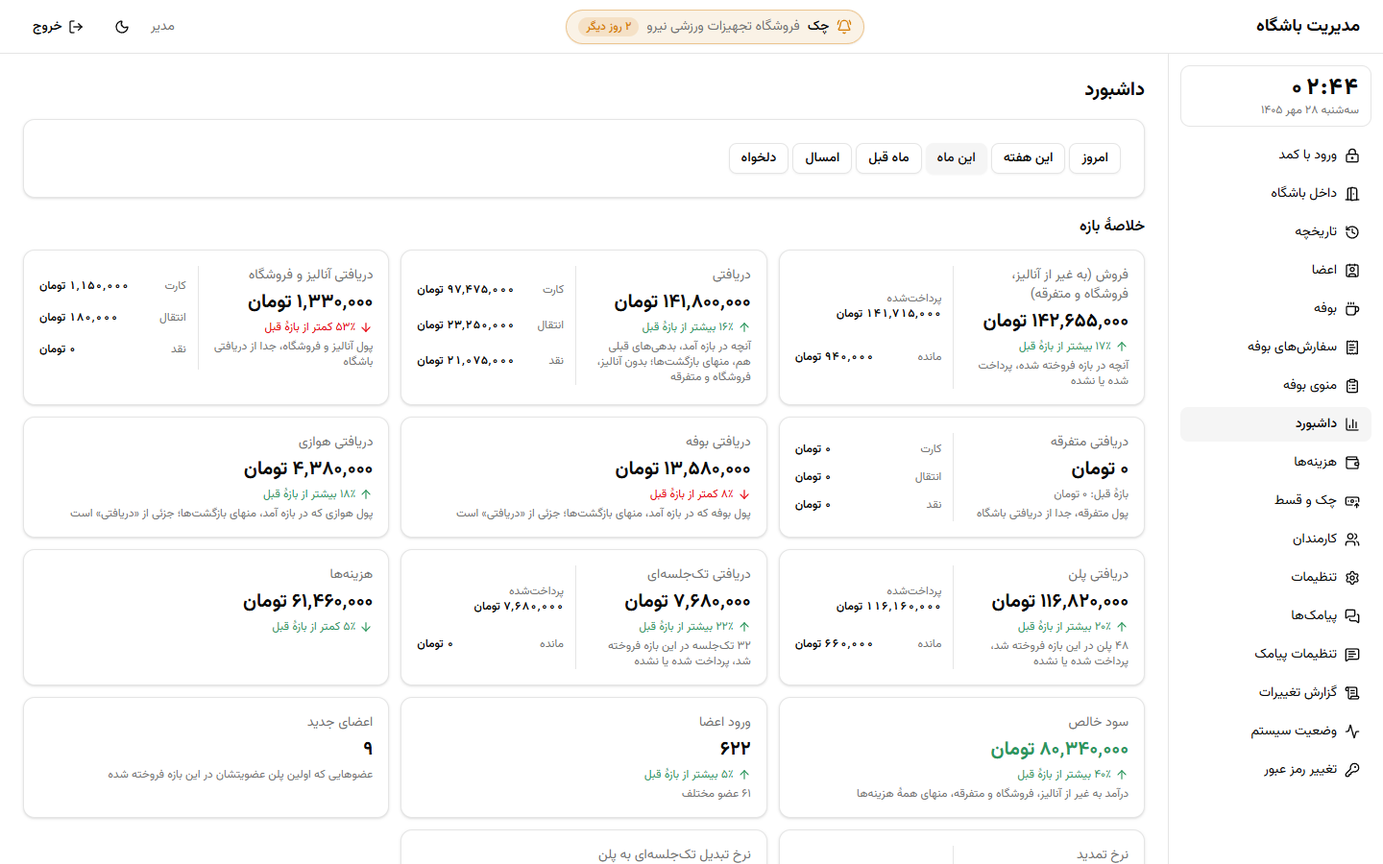
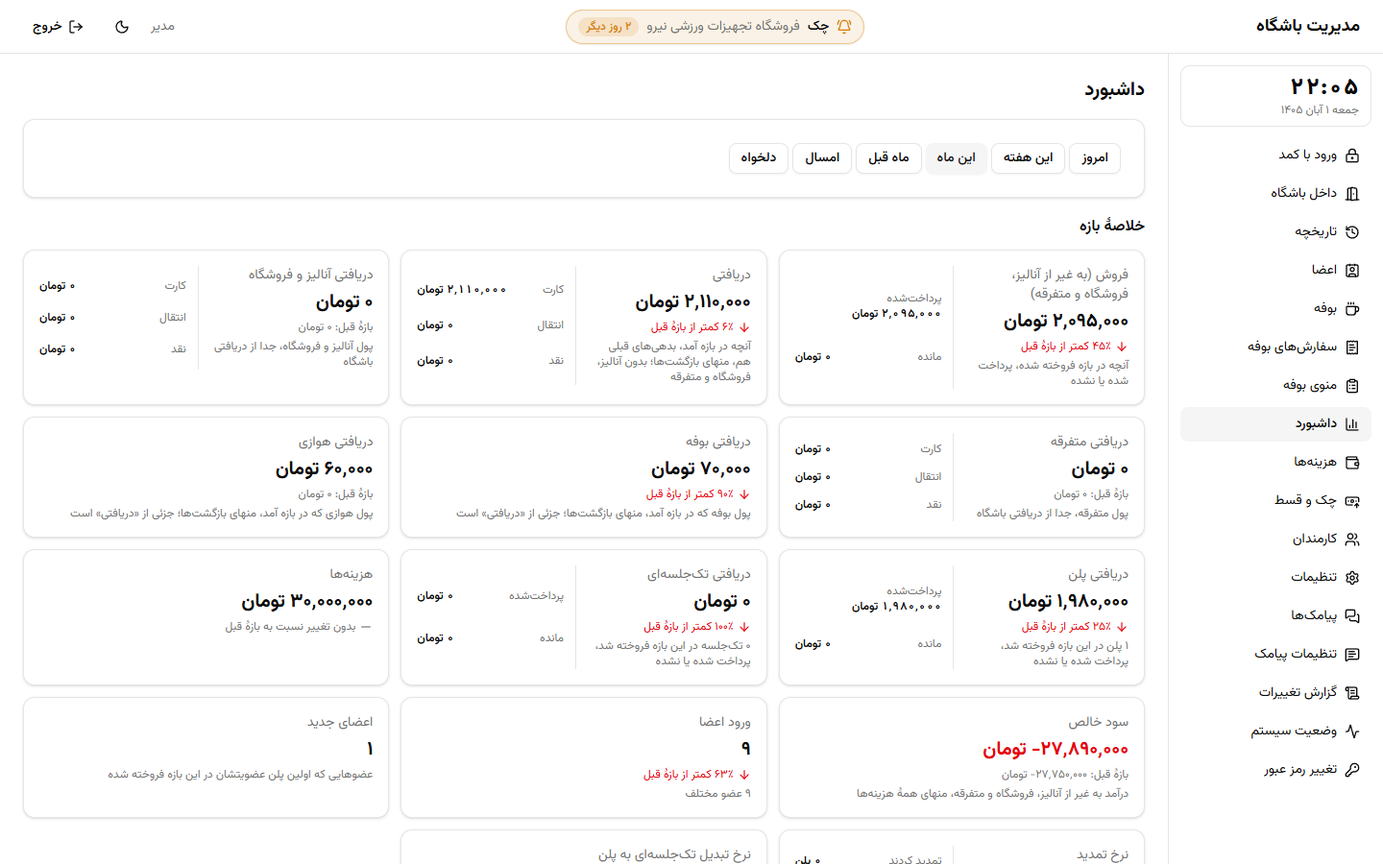
feat(sms): new wording for the absence, welcome and birthday SMS; dashboard on a month's 1st (10.18)
- Absence: spoken wording with the member's real days away (Absence.DaysAway), two parts
- Welcome: spoken wording, two parts; birthday: spoken wording, still two parts
- Dashboard: when presets share a range, the default «این ماه» lights (a month's 1st, 1 Farvardin)
- ServiceChargeBox void test waits 3 s for its notice
- README screenshots retaken

diff --git a/web/src/features/sms/pages/SmsSettingsPage.test.tsx b/web/src/features/sms/pages/SmsSettingsPage.test.tsx
@@ -92,13 +92,16 @@ const samples: SmsSamples = {
     "علی عزیز، اشتراک شما در باشگاه پاسارگاد ۱۴۰۵/۰۷/۳۱ به پایان میرسد.\nلغو11",
   ),
   lowSessions: sample("علی عزیز، فقط ۲ جلسه از اشتراک شما در باشگاه پاسارگاد مانده است.\nلغو11"),
-  birthday: sample("علی عزیز، ۰۷/۳۱ روز تولد شماست؛ …\nلغو11", 2),
+  birthday: sample("علی عزیز سلام، ۰۷/۳۱ روز تولدته؛ …\nلغو11", 2),
   payableDue: sample("یادآوری چک: ۱۲٬۵۰۰٬۰۰۰ تومان، سررسید ۱۴۰۵/۰۷/۳۰، به فروشگاه\nلغو11"),
   dailyReport: sample("گزارش باشگاه پاسارگاد ۰۷/۲۸\nورود: ۴۸\nلغو11", 2),
   subscriptionReceipt: sample("علی عزیز، اشتراک ۱۲ جلسهای شما … سپاس!\nلغو11", 2),
-  welcome: sample("علی عزیز، به باشگاه پاسارگاد خوش آمدید!\nلغو11"),
+  welcome: sample("درود بر علی عزیز، به باشگاه پاسارگاد خوش اومدی، …\nلغو11", 2),
   debtReminder: sample("علی عزیز، مانده حساب شما در باشگاه پاسارگاد ۴۵۰٬۰۰۰ تومان است.\nلغو11", 2),
-  absence: sample("علی عزیز، جای شما در باشگاه پاسارگاد خالی است!\nلغو11"),
+  absence: sample(
+    "علی عزیز، جات توی باشگاه پاسارگاد خالیه! ۱۲ روزه که باشگاه نیومدی و منتظر حضور گرمت هستیم!\nلغو11",
+    2,
+  ),
 };
 
 /** The phone-like preview inside one kind's card. */
@@ -133,9 +136,12 @@ describe("SmsSettingsPage", () => {
     renderApp("/sms-settings", { session: session() });
 
     await waitFor(() =>
-      expect(previewOf("خوشآمد")).toHaveTextContent("علی عزیز، به باشگاه پاسارگاد خوش آمدید!"),
+      expect(previewOf("خوشآمد")).toHaveTextContent(
+        "درود بر علی عزیز، به باشگاه پاسارگاد خوش اومدی، …",
+      ),
     );
-    expect(previewOf("خوشآمد")).toHaveTextContent("۱ بخش · نام و عددها نمونهاند");
+    expect(previewOf("خوشآمد")).toHaveTextContent("۲ بخش · نام و عددها نمونهاند");
+    expect(previewOf("جلسات رو به اتمام")).toHaveTextContent("۱ بخش");
     expect(previewOf("گزارش روزانه")).toHaveTextContent("گزارش باشگاه پاسارگاد ۰۷/۲۸");
     expect(previewOf("گزارش روزانه")).toHaveTextContent("۲ بخش");
     for (const name of [

diff --git a/web/src/features/dashboard/range.ts b/web/src/features/dashboard/range.ts
@@ -84,12 +84,18 @@ export function presetRange(preset: RangePreset, today: string): ReportRange {
   }
 }
 
-/** The preset a range is, so its button reads pressed; undefined for a range of one's own. */
+/**
+ * The preset a range is, so its button reads pressed; undefined for a range of one's own. When
+ * several cover the same days, the page's default wins (on a month's 1st «امروز» and «این ماه» are
+ * one day, and the page opens on «این ماه»), and otherwise the first one listed.
+ */
 export function presetOf(range: ReportRange, today: string): RangePreset | undefined {
-  return rangePresets.find((preset) => {
+  const matching = rangePresets.filter((preset) => {
     const candidate = presetRange(preset, today);
     return candidate.from === range.from && candidate.to === range.to;
   });
+
+  return matching.includes(defaultRangePreset) ? defaultRangePreset : matching[0];
 }
 
 /** How many days a range covers, both ends included. */

diff --git a/web/src/features/dashboard/range.test.ts b/web/src/features/dashboard/range.test.ts
@@ -64,6 +64,17 @@ describe("presetOf", () => {
     // On a Saturday "today" and "this week" are the same day; the first one listed wins.
     expect(presetOf({ from: "2026-10-03", to: "2026-10-03" }, "2026-10-03")).toBe("today");
   });
+
+  it("presetOf_FirstOfTheMonth_IsThisMonth", () => {
+    // 2026-10-23 is Friday ۱۴۰۵/۰۸/۰۱: "today" and "this month" are the same day; the page's
+    // default wins.
+    expect(presetOf({ from: "2026-10-23", to: "2026-10-23" }, "2026-10-23")).toBe("month");
+  });
+
+  it("presetOf_FirstOfTheYear_IsThisMonth", () => {
+    // 2027-03-21 is ۱۴۰۶/۰۱/۰۱: "today", "this month" and "this year" are one day.
+    expect(presetOf({ from: "2027-03-21", to: "2027-03-21" }, "2027-03-21")).toBe("month");
+  });
 });
 
 describe("rangeError", () => {

diff --git a/web/src/features/serviceCharges/components/ServiceChargeBox.test.tsx b/web/src/features/serviceCharges/components/ServiceChargeBox.test.tsx
@@ -286,7 +286,11 @@ describe("ServiceChargeBox", () => {
     await waitFor(() =>
       expect(api.requestsTo("POST", `/api/service-charges/${charge.id}/void`)).toHaveLength(1),
     );
-    expect(await screen.findByText("مبلغ هوازی ابطال شد")).toBeInTheDocument();
+    // The notice comes once the dialog has closed and the visit is read again; on a machine busy
+    // with the whole suite that took longer than the default second (seen 2026-10-23).
+    expect(
+      await screen.findByText("مبلغ هوازی ابطال شد", {}, { timeout: 3000 }),
+    ).toBeInTheDocument();
   });
 
   it("Box_NoChargeOnAClosedVisit_ShowsNothing", async () => {

diff --git a/tests/Gym.Domain.Tests/Notifications/SmsTextTests.cs b/tests/Gym.Domain.Tests/Notifications/SmsTextTests.cs
@@ -74,13 +74,13 @@ public sealed class SmsTextTests
     public void ForBirthday_Birthday_IsTheAgreedTextWithTheFreeVisit()
     {
         SmsText.ForBirthday("سارا محمدی", Day)
-            .ShouldBe("سارا عزیز، ۰۷/۲۰ روز تولد شماست؛ آن روز مهمان باشگاه پاسارگاد هستید و ورودتان رایگان است. پیشاپیش تولدتان مبارک!" + OptOutLine);
+            .ShouldBe("سارا عزیز سلام، ۰۷/۲۰ روز تولدته؛ اون روز مهمون باشگاه پاسارگاد هستی و ورودت رایگانه. پیشاپیش تولدت مبارک رفیق!!" + OptOutLine);
     }
 
     [Fact]
     public void ForBirthday_TenCharacterName_FitsInTwoParts()
     {
-        // docs/sms-texts.md: about 124 characters; two parts hold 134.
+        // docs/sms-texts.md: about 118 characters; two parts hold 134.
         SmsText.ForBirthday("سارا محمدی", Day).Length.ShouldBeLessThanOrEqualTo(2 * 67);
     }
 
@@ -294,20 +294,21 @@ public sealed class SmsTextTests
     [Fact]
     public void ForWelcome_Member_GreetsThemByName()
     {
-        SmsText.ForWelcome("سارا محمدی").ShouldBe("سارا عزیز، به باشگاه پاسارگاد خوش آمدید!" + OptOutLine);
+        SmsText.ForWelcome("سارا محمدی")
+            .ShouldBe("درود بر سارا عزیز، به باشگاه پاسارگاد خوش اومدی، امیدوارم ساعات خوشی رو توی باشگاه داشته باشی" + OptOutLine);
     }
 
     [Fact]
     public void ForWelcome_NameWithSayyed_IsTheFirstNameOnly()
     {
-        SmsText.ForWelcome(LongName).ShouldStartWith("محمد عزیز،");
+        SmsText.ForWelcome(LongName).ShouldStartWith("درود بر محمد عزیز،");
     }
 
     [Fact]
-    public void ForWelcome_TenCharacterName_FitsInOnePart()
+    public void ForWelcome_TenCharacterName_IsTwoParts()
     {
-        // docs/sms-texts.md: about 52 characters, one part of 70.
-        SmsText.ForWelcome("سارا محمدی").Length.ShouldBeLessThanOrEqualTo(70);
+        // docs/sms-texts.md: about 99 characters, two parts of 67 (the developer accepted two, 1405/08/01).
+        SmsParts.Count(SmsText.ForWelcome("سارا محمدی")).ShouldBe(2);
     }
 
     // ---- The debt reminder (task 10.11) ----
@@ -336,22 +337,31 @@ public sealed class SmsTextTests
     // ---- The absence SMS (task 10.12) ----
 
     [Fact]
-    public void ForAbsence_Member_TellsThemTheirPlaceIsEmpty()
+    public void ForAbsence_Member_TellsThemTheirPlaceIsEmptyAndTheDaysAway()
     {
-        SmsText.ForAbsence("سارا محمدی").ShouldBe("سارا عزیز، جای شما در باشگاه پاسارگاد خالی است!" + OptOutLine);
+        SmsText.ForAbsence("سارا محمدی", 12)
+            .ShouldBe("سارا عزیز، جات توی باشگاه پاسارگاد خالیه! ۱۲ روزه که باشگاه نیومدی و منتظر حضور گرمت هستیم!" + OptOutLine);
     }
 
     [Fact]
     public void ForAbsence_NameWithSayyed_IsTheFirstNameOnly()
     {
-        SmsText.ForAbsence(LongName).ShouldStartWith("محمد عزیز،");
+        SmsText.ForAbsence(LongName, 12).ShouldStartWith("محمد عزیز،");
+    }
+
+    [Theory]
+    [InlineData(0)]
+    [InlineData(-1)]
+    public void ForAbsence_NoDaysAway_Throws(int daysAway)
+    {
+        Should.Throw<ArgumentOutOfRangeException>(() => SmsText.ForAbsence("سارا محمدی", daysAway));
     }
 
     [Fact]
-    public void ForAbsence_TenCharacterName_FitsInOnePart()
+    public void ForAbsence_TenCharacterName_IsTwoParts()
     {
-        // docs/sms-texts.md: about 59 characters, one part of 70.
-        SmsText.ForAbsence("سارا محمدی").Length.ShouldBeLessThanOrEqualTo(70);
+        // docs/sms-texts.md: about 106 characters, two parts of 67 (the developer accepted two, 1405/08/01).
+        SmsParts.Count(SmsText.ForAbsence("سارا محمدی", 60)).ShouldBe(2);
     }
 
     // ---- The first name (task 10.13) ----

diff --git a/src/Gym.Domain/Notifications/SmsText.cs b/src/Gym.Domain/Notifications/SmsText.cs
@@ -81,12 +81,12 @@ public static class SmsText
 
     /// <summary>
     /// Always sent 1 to 7 days early, so one text: the date without the year, the free visit on it
-    /// (BUSINESS_RULES.md §7 <i>Birthday visit</i>) and «پیشاپیش تولدتان مبارک» (chosen by the
-    /// developer, 1405/07/27, task 10.8).
+    /// (BUSINESS_RULES.md §7 <i>Birthday visit</i>) and «پیشاپیش تولدت مبارک» (chosen by the
+    /// developer, 1405/07/27, task 10.8; the developer's spoken wording since 1405/08/01).
     /// </summary>
     /// <param name="birthday">This year's birthday, as <c>SmsAudience.BirthdayToGreet</c> found it.</param>
     public static string ForBirthday(string fullName, DateOnly birthday) =>
-        WithOptOut($"{FirstName(fullName)} عزیز، {MonthAndDay(birthday)} روز تولد شماست؛ آن روز مهمان باشگاه پاسارگاد هستید و ورودتان رایگان است. پیشاپیش تولدتان مبارک!");
+        WithOptOut($"{FirstName(fullName)} عزیز سلام، {MonthAndDay(birthday)} روز تولدته؛ اون روز مهمون باشگاه پاسارگاد هستی و ورودت رایگانه. پیشاپیش تولدت مبارک رفیق!!");
 
     /// <summary>To the Owner: the kind, the amount, the date and the payee.</summary>
     public static string ForPayableDue(PayableKind kind, decimal amount, DateOnly dueDate, string payee)
@@ -142,11 +142,12 @@ public static class SmsText
         WithOptOut($"{FirstName(fullName)} عزیز، اشتراک {Number(sessions)} جلسهای شما در باشگاه پاسارگاد ({Number(days)} روز، پس از اشتراک فعلی) ثبت و {Amount(price)} تومان کامل پرداخت شد. سپاس!");
 
     /// <summary>
-    /// To the member when their first plan is sold (task 10.10): one SMS part, and nothing in it that
-    /// would be wrong for a member moved over from the paper notebook (chosen by the developer, 1405/07/27).
+    /// To the member when their first plan is sold (task 10.10): nothing in it that would be wrong
+    /// for a member moved over from the paper notebook (chosen by the developer, 1405/07/27). The
+    /// developer's warmer wording since 1405/08/01, two SMS parts.
     /// </summary>
     public static string ForWelcome(string fullName) =>
-        WithOptOut($"{FirstName(fullName)} عزیز، به باشگاه پاسارگاد خوش آمدید!");
+        WithOptOut($"درود بر {FirstName(fullName)} عزیز، به باشگاه پاسارگاد خوش اومدی، امیدوارم ساعات خوشی رو توی باشگاه داشته باشی");
 
     /// <summary>
     /// To the member whose debt has been owed for a while (task 10.11): their whole open account,
@@ -158,10 +159,15 @@ public static class SmsText
 
     /// <summary>
     /// To the member with a usable plan who has stopped coming (task 10.12): friendly, with no offer
-    /// in it, one SMS part (chosen by the developer, 1405/07/27).
+    /// in it. Since 1405/08/01 the developer's warmer wording with the real days away, two SMS parts.
     /// </summary>
-    public static string ForAbsence(string fullName) =>
-        WithOptOut($"{FirstName(fullName)} عزیز، جای شما در باشگاه پاسارگاد خالی است!");
+    /// <param name="daysAway">Whole days since the absence began (<c>Absence.DaysAway</c>), not the settings' number.</param>
+    public static string ForAbsence(string fullName, int daysAway)
+    {
+        ArgumentOutOfRangeException.ThrowIfNegativeOrZero(daysAway);
+
+        return WithOptOut($"{FirstName(fullName)} عزیز، جات توی باشگاه پاسارگاد خالیه! {Number(daysAway)} روزه که باشگاه نیومدی و منتظر حضور گرمت هستیم!");
+    }
 
     /// <summary>
     /// The broadcast (task 10.13): the member's first name, then the Owner's own text, which the

diff --git a/tests/Gym.Api.IntegrationTests/Notifications/SmsSamplesTests.cs b/tests/Gym.Api.IntegrationTests/Notifications/SmsSamplesTests.cs
@@ -42,9 +42,10 @@ public sealed class SmsSamplesTests(DatabaseFixture fixture) : DatabaseTestBase(
         samples.DailyReport.Text.ShouldStartWith("گزارش باشگاه پاسارگاد ۰۷/۲۸\n");
         samples.SubscriptionReceipt.Text.ShouldBe(
             SmsText.ForSubscriptionReceipt("علی", 12, Today, Today.AddDays(30), 1_800_000m));
-        samples.Welcome.Text.ShouldBe("علی عزیز، به باشگاه پاسارگاد خوش آمدید!\nلغو11");
+        samples.Welcome.Text.ShouldBe("درود بر علی عزیز، به باشگاه پاسارگاد خوش اومدی، امیدوارم ساعات خوشی رو توی باشگاه داشته باشی\nلغو11");
         samples.DebtReminder.Text.ShouldBe(SmsText.ForDebtReminder("علی", 450_000m));
-        samples.Absence.Text.ShouldBe("علی عزیز، جای شما در باشگاه پاسارگاد خالی است!\nلغو11");
+        samples.Absence.Text.ShouldBe("علی عزیز، جات توی باشگاه پاسارگاد خالیه! ۱۲ روزه که باشگاه نیومدی و منتظر حضور گرمت هستیم!\nلغو11");
+        samples.Absence.Parts.ShouldBe(2);
 
         foreach (var sample in new[]
                  {
@@ -57,7 +58,7 @@ public sealed class SmsSamplesTests(DatabaseFixture fixture) : DatabaseTestBase(
             sample.Parts.ShouldBe(SmsParts.Count(sample.Text));
         }
 
-        samples.Welcome.Parts.ShouldBe(1);
+        samples.Welcome.Parts.ShouldBe(2);
     }
 
     [Fact]
@@ -73,7 +74,7 @@ public sealed class SmsSamplesTests(DatabaseFixture fixture) : DatabaseTestBase(
         response.StatusCode.ShouldBe(HttpStatusCode.OK);
         var samples = (await response.Content.ReadFromJsonAsync<SmsSamplesResponse>(TestContext.Current.CancellationToken))
             .ShouldNotBeNull();
-        samples.Welcome.ShouldBe(new SmsSample("علی عزیز، به باشگاه پاسارگاد خوش آمدید!\nلغو11", 1));
+        samples.Welcome.ShouldBe(new SmsSample("درود بر علی عزیز، به باشگاه پاسارگاد خوش اومدی، امیدوارم ساعات خوشی رو توی باشگاه داشته باشی\nلغو11", 2));
         samples.DailyReport.Text.ShouldContain("کارت:");
     }
 

diff --git a/tests/Gym.Api.IntegrationTests/Notifications/SendDailySmsTests.cs b/tests/Gym.Api.IntegrationTests/Notifications/SendDailySmsTests.cs
@@ -333,7 +333,7 @@ public sealed class SendDailySmsTests(DatabaseFixture fixture) : DatabaseTestBas
         sender.Requests.Select(request => request.Receptor)
             .ShouldBe([withPlan.PhoneNumber, frozen.PhoneNumber, queued.PhoneNumber], ignoreOrder: true);
         sender.Requests[0].Text.ShouldBe(
-            $"{SmsText.FirstName(Name)} عزیز، ۰۷/۱۶ روز تولد شماست؛ آن روز مهمان باشگاه پاسارگاد هستید و ورودتان رایگان است. پیشاپیش تولدتان مبارک!\nلغو11");
+            $"{SmsText.FirstName(Name)} عزیز سلام، ۰۷/۱۶ روز تولدته؛ اون روز مهمون باشگاه پاسارگاد هستی و ورودت رایگانه. پیشاپیش تولدت مبارک رفیق!!\nلغو11");
         (await NotificationsAsync()).ShouldAllBe(notification => notification.JalaliYear == 1405);
     }
 
@@ -361,7 +361,7 @@ public sealed class SendDailySmsTests(DatabaseFixture fixture) : DatabaseTestBas
         await RunAsync(NotificationKind.Birthday, sender);
         await RunAsync(NotificationKind.Birthday, sender, at: At(Today.AddDays(1), 10, 0));
 
-        sender.Requests.ShouldHaveSingleItem().Text.ShouldStartWith($"{SmsText.FirstName(Name)} عزیز، ۰۷/۱۶ روز تولد شماست؛");
+        sender.Requests.ShouldHaveSingleItem().Text.ShouldStartWith($"{SmsText.FirstName(Name)} عزیز سلام، ۰۷/۱۶ روز تولدته؛");
     }
 
     [Fact]
@@ -375,7 +375,7 @@ public sealed class SendDailySmsTests(DatabaseFixture fixture) : DatabaseTestBas
 
         await RunAsync(NotificationKind.Birthday, sender, at: At(day, 10, 0));
 
-        sender.Requests.ShouldHaveSingleItem().Text.ShouldStartWith($"{SmsText.FirstName(Name)} عزیز، ۱۲/۲۹ روز تولد شماست؛");
+        sender.Requests.ShouldHaveSingleItem().Text.ShouldStartWith($"{SmsText.FirstName(Name)} عزیز سلام، ۱۲/۲۹ روز تولدته؛");
     }
 
     // ---- Cheques and instalments ----

diff --git a/tests/Gym.Api.IntegrationTests/Notifications/AbsenceTests.cs b/tests/Gym.Api.IntegrationTests/Notifications/AbsenceTests.cs
@@ -52,7 +52,7 @@ public sealed class AbsenceTests(DatabaseFixture fixture) : DatabaseTestBase(fix
 
         var request = sender.Requests.ShouldHaveSingleItem();
         request.Receptor.ShouldBe(member.PhoneNumber);
-        request.Text.ShouldBe(SmsText.ForAbsence(member.FullName));
+        request.Text.ShouldBe(SmsText.ForAbsence(member.FullName, DaysAway));
         var absence = (await NotificationsAsync()).ShouldHaveSingleItem();
         absence.Kind.ShouldBe(NotificationKind.Absence);
         absence.MemberId.ShouldBe(member.Id);
@@ -73,6 +73,22 @@ public sealed class AbsenceTests(DatabaseFixture fixture) : DatabaseTestBase(fix
 
         sender.Requests.ShouldBeEmpty();
         (await NotificationsAsync()).ShouldBeEmpty();
+    }
+
+    [Fact]
+    public async Task Handle_AwayLongerThanTheDays_SaysTheRealDaysAway()
+    {
+        // The setting decides who gets it; the text says how long this member has really been away.
+        var member = await AddMemberAsync("سارا محمدی");
+        // A 10-session plan runs 30 days, so this one is still usable today.
+        var plan = await AddPlanStartingAsync(member.Id, Today.AddDays(-25));
+        await AddVisitAsync(member.Id, plan, At(Today.AddDays(-23), 18));
+        await TurnOnAsync();
+        var sender = new ScriptedSmsSender();
+
+        await RunAsync(sender);
+
+        sender.Requests.ShouldHaveSingleItem().Text.ShouldBe(SmsText.ForAbsence(member.FullName, 23));
     }
 
     [Fact]

diff --git a/src/Gym.Application/Notifications/GetSmsSamples/GetSmsSamplesHandler.cs b/src/Gym.Application/Notifications/GetSmsSamples/GetSmsSamplesHandler.cs
@@ -39,7 +39,7 @@ public sealed class GetSmsSamplesHandler(IGymCalendar calendar)
             SubscriptionReceipt: Sample(SmsText.ForSubscriptionReceipt(SampleMemberName, sessions: 12, today, today.AddDays(30), 1_800_000m)),
             Welcome: Sample(SmsText.ForWelcome(SampleMemberName)),
             DebtReminder: Sample(SmsText.ForDebtReminder(SampleMemberName, 450_000m)),
-            Absence: Sample(SmsText.ForAbsence(SampleMemberName)));
+            Absence: Sample(SmsText.ForAbsence(SampleMemberName, daysAway: 12)));
     }
 
     private static SmsSample Sample(string text) => new(text, SmsParts.Count(text));

diff --git a/src/Gym.Application/Notifications/SendDailySms/AbsenceCandidate.cs b/src/Gym.Application/Notifications/SendDailySms/AbsenceCandidate.cs
@@ -80,7 +80,7 @@ public sealed class AbsenceCandidate(IAppDbContext db, IGymCalendar calendar)
                 row.Row.Plan.MemberId,
                 row.Since,
                 row.Row.PhoneNumber,
-                SmsText.ForAbsence(row.Row.FullName)))
+                SmsText.ForAbsence(row.Row.FullName, today.DayNumber - row.Since.DayNumber)))
             .ToList();
     }
 

diff --git a/docs/sms-texts.md b/docs/sms-texts.md
@@ -63,13 +63,17 @@ days before the birthday, never on the day, and tells the member of the free vis
 «پیشاپیش»; messages written before keep their text.
 
 ```
-{name} عزیز، {month/day} روز تولد شماست؛ آن روز مهمان باشگاه پاسارگاد هستید و ورودتان رایگان است. پیشاپیش تولدتان مبارک!
+{name} عزیز سلام، {month/day} روز تولدته؛ اون روز مهمون باشگاه پاسارگاد هستی و ورودت رایگانه. پیشاپیش تولدت مبارک رفیق!!
 ```
+
+- Rewritten by the developer on 1405/08/01 (2026-10-23) in spoken Persian. The first text
+  (1405/07/27) was «{name} عزیز، {month/day} روز تولد شماست؛ آن روز مهمان باشگاه پاسارگاد هستید و
+  ورودتان رایگان است. پیشاپیش تولدتان مبارک!». Messages written before keep their text.
 
 - `{month/day}`: the birthday's Jalali month and day **without the year** (the developer,
   1405/07/27), e.g. `۰۷/۱۶` (`SmsText.MonthAndDay`, as in the daily report); `۱۲/۲۹` for someone
   born on 30 Esfand in a year without it.
-- About 124 characters: two parts.
+- About 118 characters with a 10-character name: two parts.
 
 ### Cheque or instalment coming due (`PayableDue`, to the Owner)
 
@@ -133,11 +137,14 @@ Chosen by the developer on 1405/07/27 (2026-10-19), task 10.10. Sent when a memb
 sold (BUSINESS_RULES.md §10 *The welcome*).
 
 ```
-{name} عزیز، به باشگاه پاسارگاد خوش آمدید!
+درود بر {name} عزیز، به باشگاه پاسارگاد خوش اومدی، امیدوارم ساعات خوشی رو توی باشگاه داشته باشی
 ```
 
+- Rewritten by the developer on 1405/08/01 (2026-10-23) in spoken Persian; the first text was
+  «{name} عزیز، به باشگاه پاسارگاد خوش آمدید!». As typed by the developer, with «ب» read as «به» and a
+  space after the comma.
 - Nothing in it would be wrong for a member moved over from the paper notebook, who gets it too.
-- About 52 characters with a 10-character name: one part, like the absence SMS.
+- About 99 characters with a 10-character name: two parts (the first text was one).
 
 ### Debt reminder (`DebtReminder`, to the member)
 
@@ -156,17 +163,24 @@ minimum amount (BUSINESS_RULES.md §10 *The debt reminder*).
 
 ### Absence (`Absence`, to the member)
 
-Chosen by the developer on 1405/07/27 (2026-10-19), task 10.12. Sent once per absence, to an active
-member with a usable plan who has not come for the settings' number of days, counted from the last
-visit or from the plan's start (BUSINESS_RULES.md §10 *The absence SMS*).
+Chosen by the developer on 1405/07/27 (2026-10-19), task 10.12, and rewritten by the developer on
+1405/08/01 (2026-10-23). Sent once per absence, to an active member with a usable plan who has not
+come for the settings' number of days, counted from the last visit or from the plan's start
+(BUSINESS_RULES.md §10 *The absence SMS*).
 
 ```
-{name} عزیز، جای شما در باشگاه پاسارگاد خالی است!
+{name} عزیز، جات توی باشگاه پاسارگاد خالیه! {days} روزه که باشگاه نیومدی و منتظر حضور گرمت هستیم!
 ```
 
-- Friendly, with no offer in it (planned that way by the developer, 1405/07/15). A longer text
-  («… منتظر دیدارتان هستیم.») was offered and would take two parts, so the developer chose the short one.
-- About 59 characters with a 10-character name: one part.
+- Friendly, with no offer in it (planned that way by the developer, 1405/07/15). Spoken Persian on
+  purpose, unlike the other kinds.
+- `{days}` is how long this member has really been away (`Absence.DaysAway`, the same count as
+  «دیگر نمیآید»), not the settings' number: someone already away 23 days when the kind is turned on
+  reads ۲۳. Chosen by the developer over the settings' number, which would say «بیشتر از ۱۰» on the
+  very day it is exactly 10.
+- About 106 characters with a 10-character name: two parts. The first text (1405/07/27,
+  «{name} عزیز، جای شما در باشگاه پاسارگاد خالی است!») was one part; the developer accepted twice the
+  cost for this one.
 
 ### Broadcast (`Broadcast`, to the member)
 
